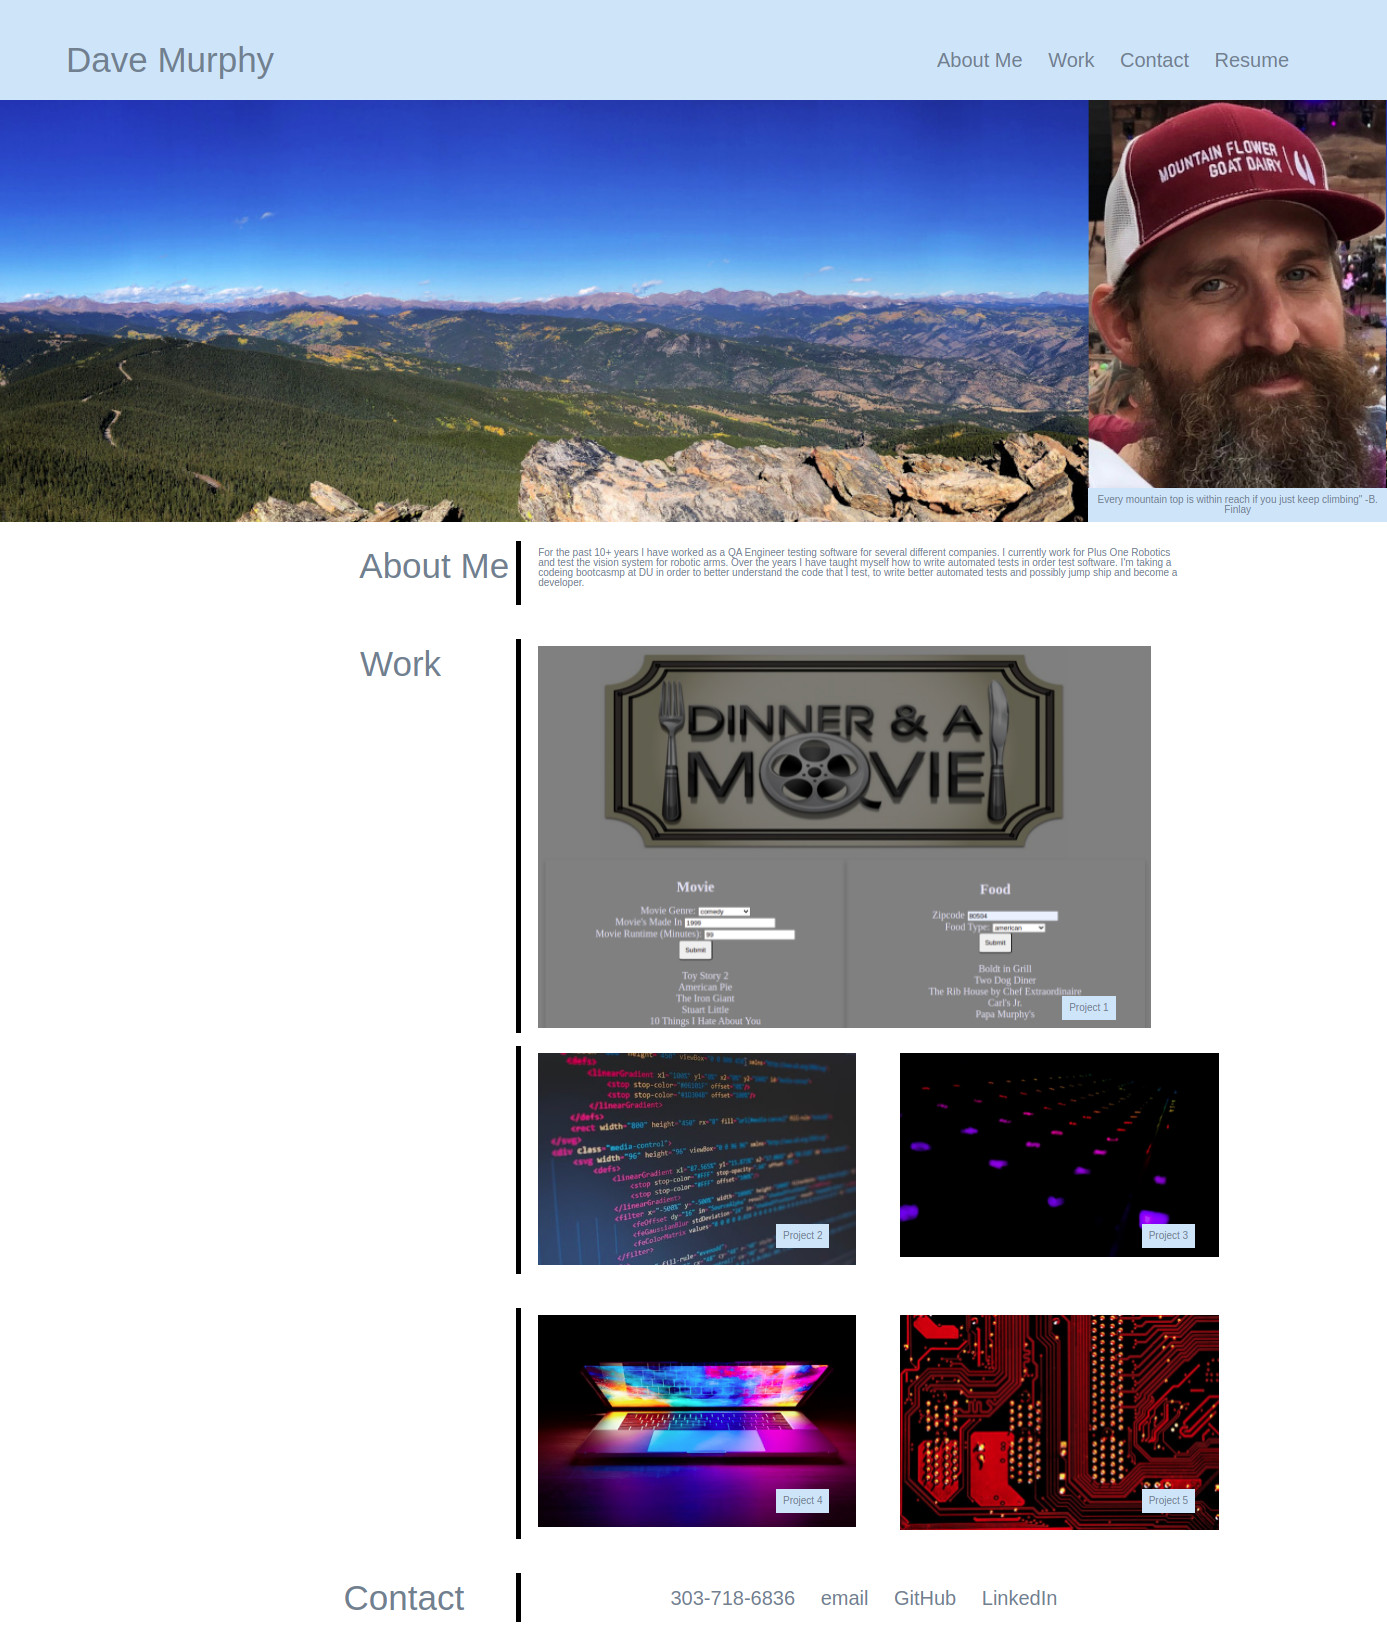
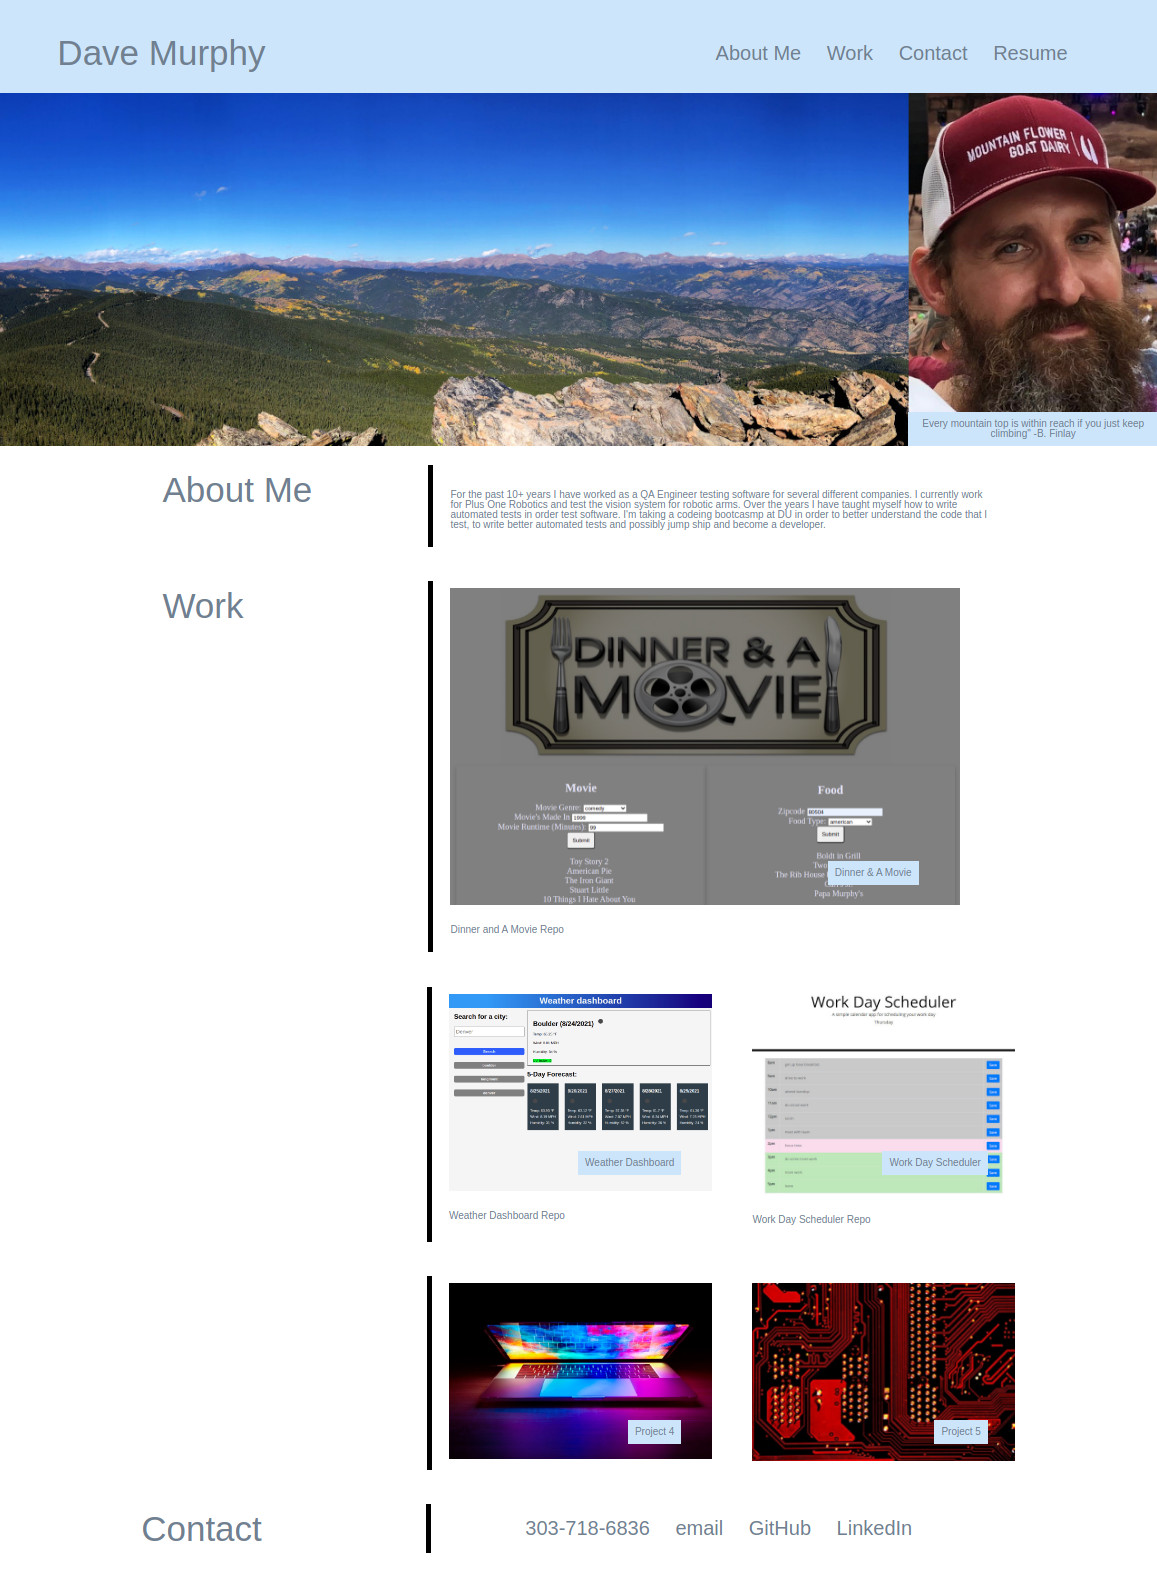
added images to readme, updated readme, fixed mobile responsiveness

diff --git a/assets/css/style.css b/assets/css/style.css
@@ -27,6 +27,7 @@ h3 {
 
 p {
     margin-bottom: 1rem;
+    margin-top: 1.8rem;
 }
 
 header {
@@ -68,6 +69,16 @@ nav a:hover {
     color: var(--darkBlue);
 }
 
+p a {
+  text-decoration: none;
+  color: var(--slateGray);
+}
+
+p a:hover {
+  text-decoration: underline;
+    color: var(--darkBlue);
+}
+
 /* This sets the height of the banner image */
 .banner-img {
     width: 100%;
@@ -95,7 +106,7 @@ nav a:hover {
 /* This places text in the bottom right of the #1 work image */
 .bottom-right-1 {
   position: absolute;
-  bottom: 17px;
+  bottom: 67px;
   right: 81px;
   padding: 7px;
   font-family: 'Trebuchet MS', 'Lucida Sans Unicode', 'Lucida Grande', 'Lucida Sans', Arial, sans-serif;
@@ -106,7 +117,7 @@ nav a:hover {
 /* This places text in the bottom right of the #2 work image */
 .bottom-right-2 {
   position: absolute;
-  bottom: 26px;
+  bottom: 67px;
   right: 54px;
   padding: 7px;
   font-family: 'Trebuchet MS', 'Lucida Sans Unicode', 'Lucida Grande', 'Lucida Sans', Arial, sans-serif;
@@ -117,7 +128,7 @@ nav a:hover {
 /* This places text in the bottom right of the #3 work image */
 .bottom-right-3 {
   position: absolute;
-  bottom: 26px;
+  bottom: 67px;
   right: 51px;
   padding: 7px;
   font-family: 'Trebuchet MS', 'Lucida Sans Unicode', 'Lucida Grande', 'Lucida Sans', Arial, sans-serif;
@@ -183,7 +194,7 @@ on the left and the paragraph, images and contact links  */
   font-family: 'Trebuchet MS', 'Lucida Sans Unicode', 'Lucida Grande', 'Lucida Sans', Arial, sans-serif;
   color: var(--slateGray);
   display: flex;
-  justify-content: flex-end;
+  justify-content: flex-start;
   border-right: 5px solid black;
   width: 30%
 }
@@ -230,8 +241,51 @@ address a:hover {
 /* When the media is resized below 660px the nav bar no longer displays */  
 @media screen and (max-width: 660px) {
     nav {
+      display: flex;
+    }
+    .container {
+      display: flexbox;
+    }
+    .bottom-right {
       display: none;
     }
+    .bottom-right-1 {
+      display: none;
+    }
+    .bottom-right-2 {
+      display: none;
+    }
+    .bottom-right-3 {
+      display: none;
+    }
+    .bottom-right-4 {
+      display: none;
+    }
+    .bottom-right-5 {
+      display: none;
+    }
+    h3 {
+      font-size: 1.5rem;
+    }
+    header nav h1 {
+      font-size: 2.5rem;
+  }
+  nav .content {
+    font-size: 1rem;
+    display: flex;
+  }
+  .contact-me {
+    font-size: 1rem;
+    display: flex;
+    justify-content: flex-start;
+  }
+  address a {
+    display: flex;
+    flex-direction: column;
+  }
+  p {
+    font-size: .8rem;
+  }
   }
 
 

diff --git a/index.html b/index.html
@@ -49,7 +49,11 @@
                     </div>
                     <div class="content site-images">
                         <a href="https://murda02.github.io/project-1/" target="_blank"><img src="./assets/images/project1-dinner-and-a-movie.png" alt="Screenshot of Dinner and a Movie app"></a>
-                        <div class="bottom-right-1">Project 1</div>
+                        <div class="bottom-right-1">Dinner & A Movie</div>
+                        <br>
+                        <p>
+                            <a href="https://github.com/murda02/project-1" target="_blank">Dinner and A Movie Repo</a>
+                        </p>
                     </div>
                 </section>
 
@@ -58,12 +62,20 @@
                         <a name="work"><div></div></a>
                     </div>
                     <div class="content site-images">
-                        <a href="./assets/images/code.jpeg" target="_blank"><img src="./assets/images/code.jpeg" alt="Image of Binary numbers"></a>
-                        <div class="bottom-right-2">Project 2</div>
+                        <a href="https://murda02.github.io/homework-week-6-weather-dashboard-dlm/" target="_blank"><img src="./assets/images/weather-dashboard2.png" alt="Screenshot of the Weather dashboard app"></a>
+                        <div class="bottom-right-2">Weather Dashboard</div>
+                        <br>
+                        <p>
+                            <a href="https://github.com/murda02/homework-week-6-weather-dashboard-dlm" target="_blank">Weather Dashboard Repo</a>
+                        </p>
                     </div>
                     <div class="content site-images">
-                        <a href="./assets/images/keyboard.jpeg" target="_blank"><img src="./assets/images/keyboard.jpeg" alt="Image of Binary numbers"></a>
-                        <div class="bottom-right-3">Project 3</div>
+                        <a href="https://murda02.github.io/homework-week-5-work-day-scheduler-dlm/" target="_blank"><img src="./assets/images/work-day-scheduler2.jpg" alt="Screenshot of the Daily Planner app"></a>
+                        <div class="bottom-right-3">Work Day Scheduler</div>
+                        <br>
+                        <p>
+                            <a href="https://github.com/murda02/homework-week-5-work-day-scheduler-dlm" target="_blank">Work Day Scheduler Repo</a>
+                        </p>
                     </div>
                 </section>
 
